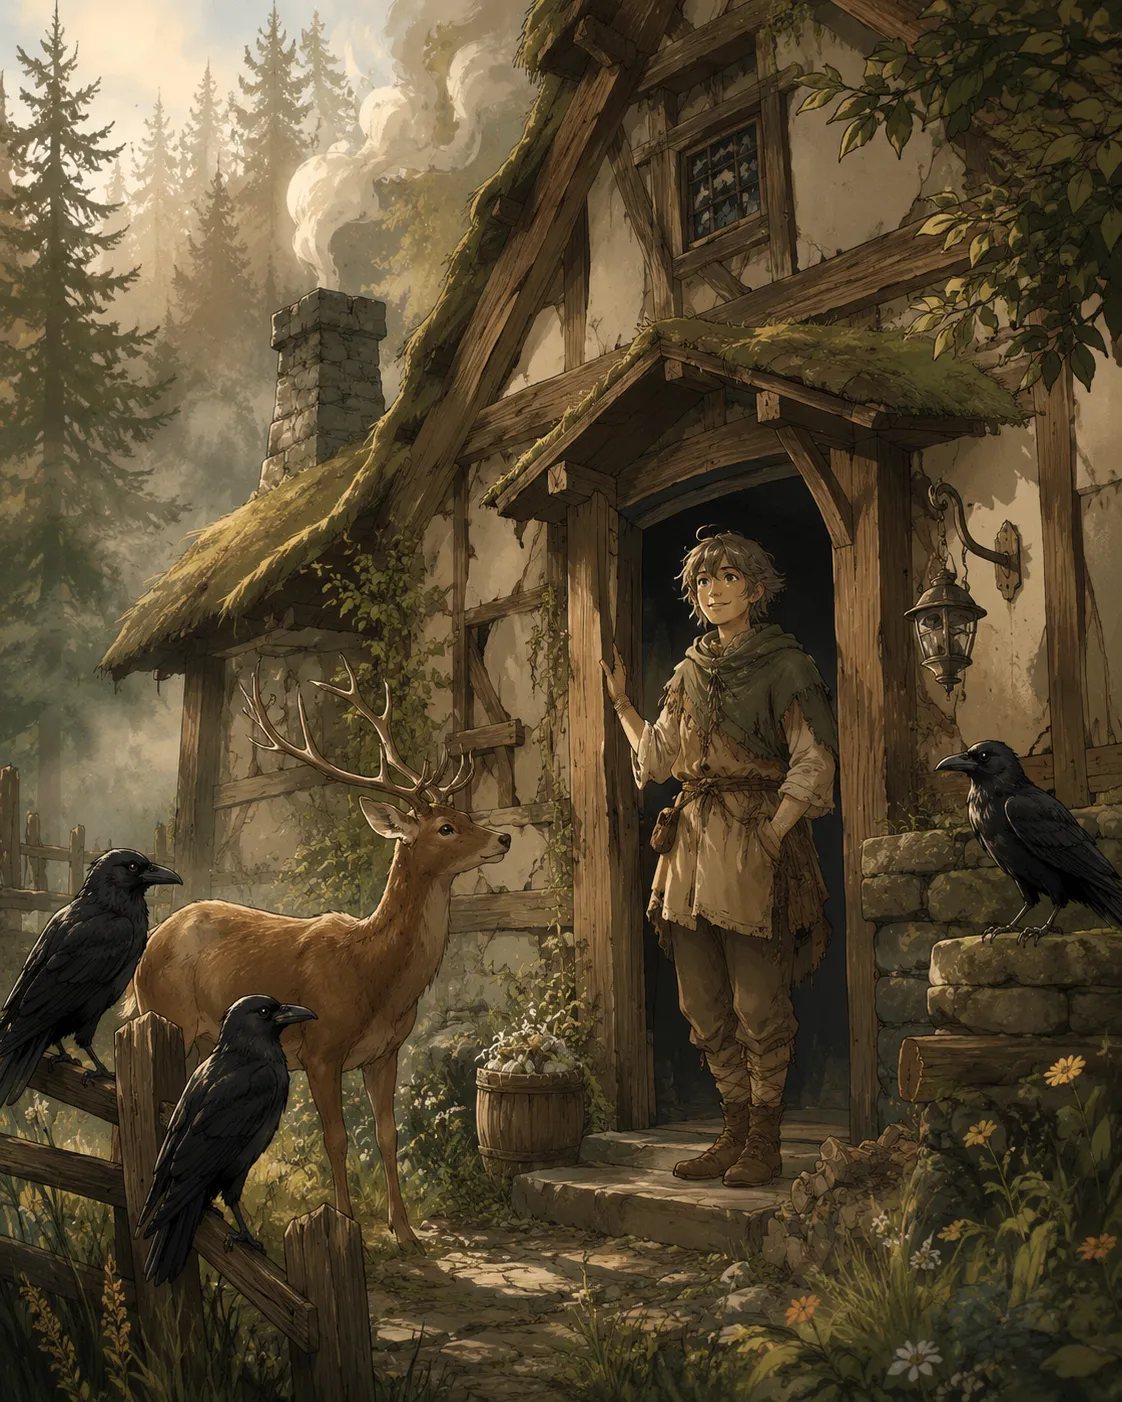
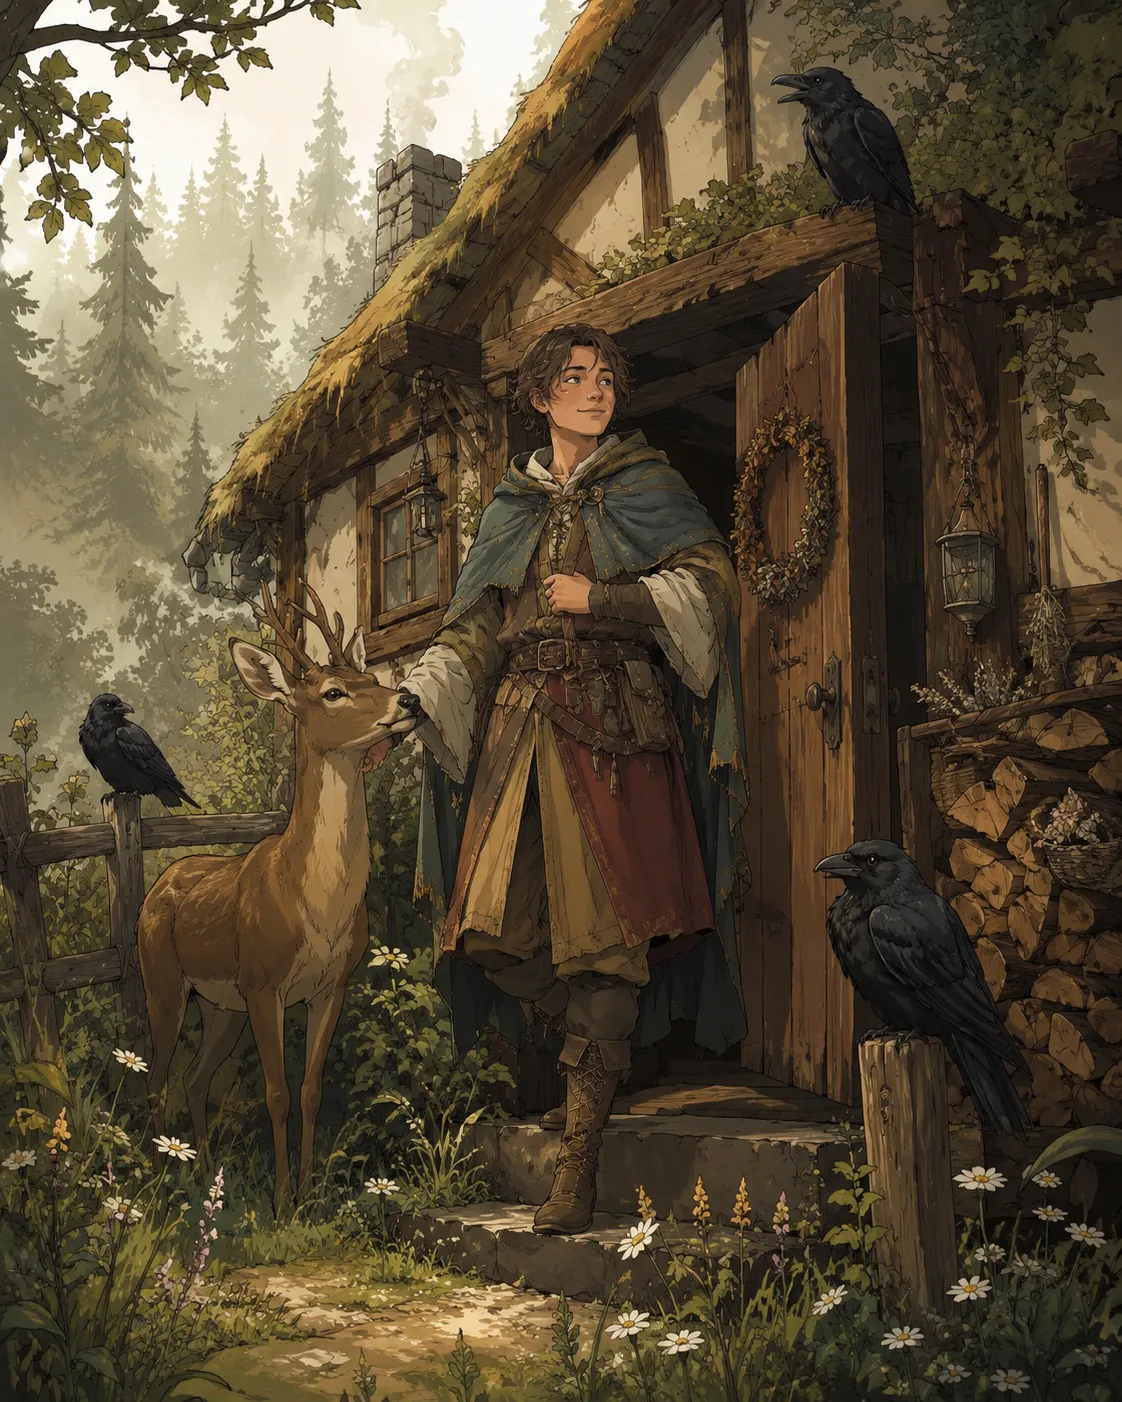
Illustrationen 01-04 eingefuegt (optimiert als WebP)
- 01 ausgetauscht, 02-04 neu. Quellen je ~2,5-2,7 MB PNG -> 221-259 KB WebP.
- Karten 01-04 zeigen jetzt das Vollbild-Layout; alle vier verifiziert.

diff --git a/index.html b/index.html
@@ -383,7 +383,7 @@ input[type=checkbox]:disabled+.toggle-visual{opacity:0.38;cursor:not-allowed}
     <div class="welcome-preview" id="welcome-preview"></div>
     <button class="btn btn-primary" id="btn-start"></button>
   </div>
-  <div class="app-version">v2026-06-20.4</div>
+  <div class="app-version">v2026-06-20.5</div>
 </section>
 <section id="screen-intro" class="screen">
   <div class="scene-bg" aria-hidden="true">